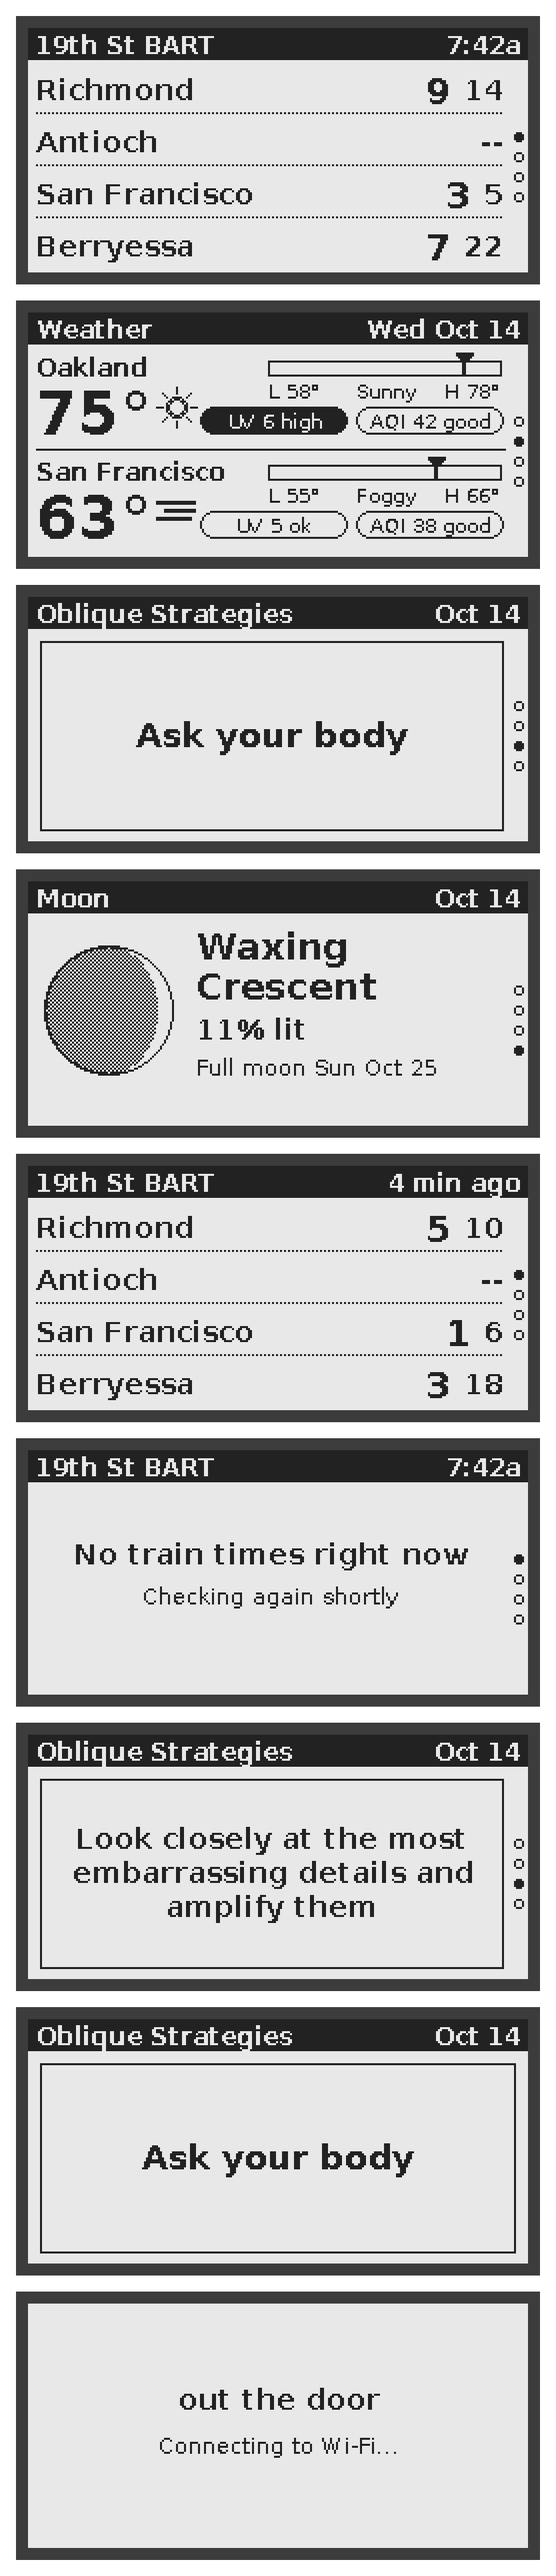
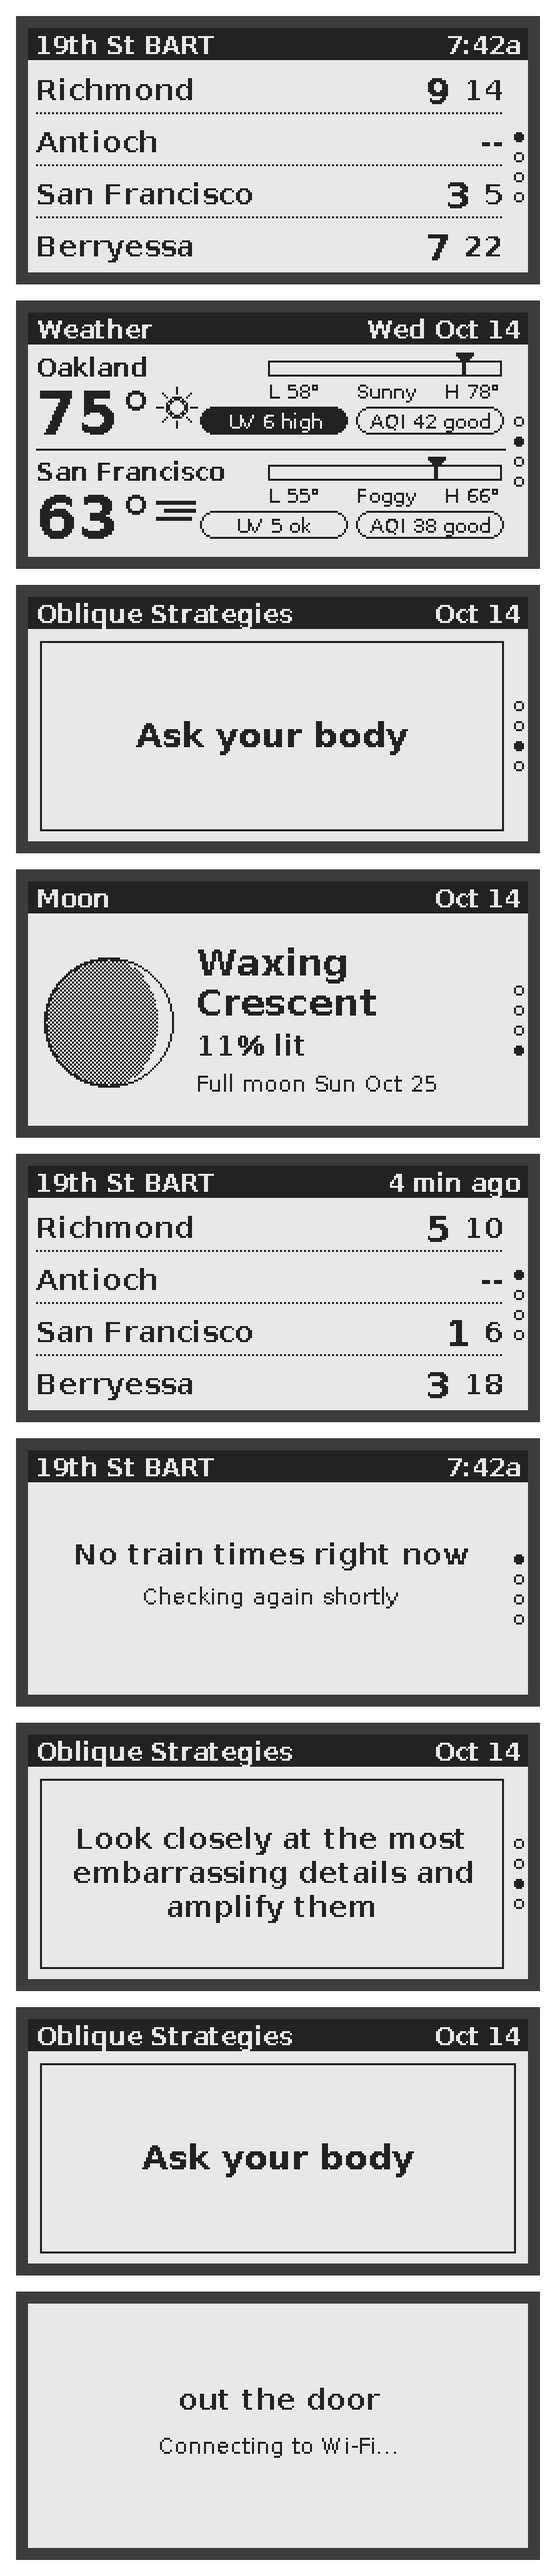
Centre the moon screen top to bottom
With the bottom dots gone the disc and text sat high; centre them in the
space under the header.

Claude-Session: https://claude.ai/code/session_01M5UbGXJzkkxR9ktM5CU7Wv

diff --git a/lib/core/screens.cpp b/lib/core/screens.cpp
@@ -240,17 +240,17 @@ void drawMoon(Adafruit_GFX &g, const Now &now) {
   formatMonthDay(now, buf, sizeof buf);
   header(g, "Moon", buf);
   const double age = moonAge(now.utcDays);
-  moonDisc(g, 40, 64, 32, age);
+  moonDisc(g, 40, 70, 32, age);
 
   const char *name = moonPhaseName(age);
   const char *space = strchr(name, ' ');
   char first[16];
   snprintf(first, sizeof first, "%.*s", (int)(space - name), name);
-  const int tx = 84;
-  drawText(g, BOLD18, tx, 22, first, INK);
-  drawText(g, BOLD18, tx, 42, space + 1, INK);
+  const int tx = 84, ty = 30;  // text block centred on the disc
+  drawText(g, BOLD18, tx, ty, first, INK);
+  drawText(g, BOLD18, tx, ty + 20, space + 1, INK);
   snprintf(buf, sizeof buf, "%d%% lit", (int)lround(moonIllumination(age) * 100));
-  drawText(g, BOLD14, tx, 66, buf, INK);
+  drawText(g, BOLD14, tx, ty + 44, buf, INK);
 
   const bool full = strcmp(name, "Full Moon") == 0;
   const double ahead = full ? fmod(SYNODIC_MONTH - age, SYNODIC_MONTH) : daysUntilFull(age);
@@ -258,7 +258,7 @@ void drawMoon(Adafruit_GFX &g, const Now &now) {
   char day[24];
   formatDayMonthDay(then, day, sizeof day);
   snprintf(buf, sizeof buf, "%s %s", full ? "New moon" : "Full moon", day);
-  drawText(g, SANS11, tx, 86, buf, INK);
+  drawText(g, SANS11, tx, ty + 64, buf, INK);
   pageDots(g, 3);
 }
 
